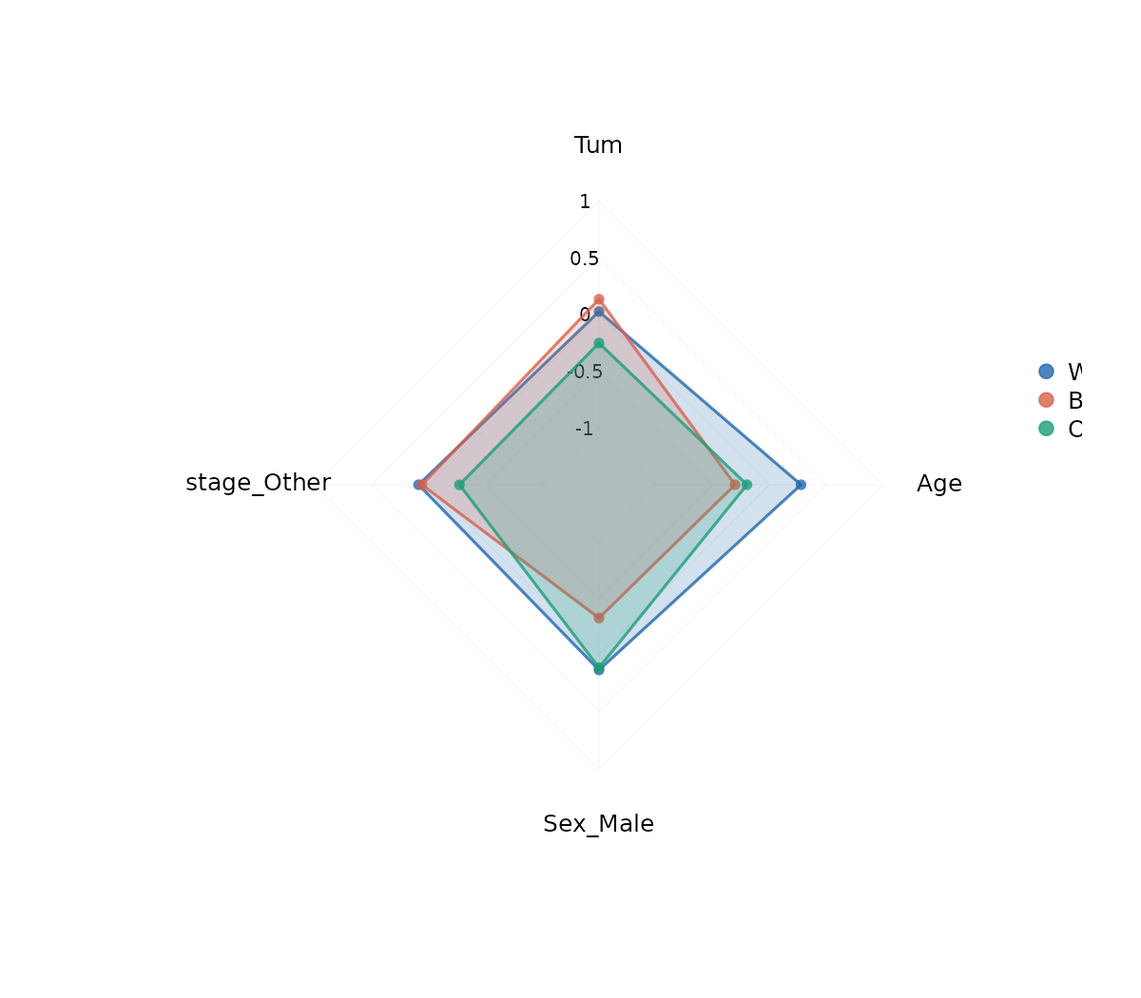
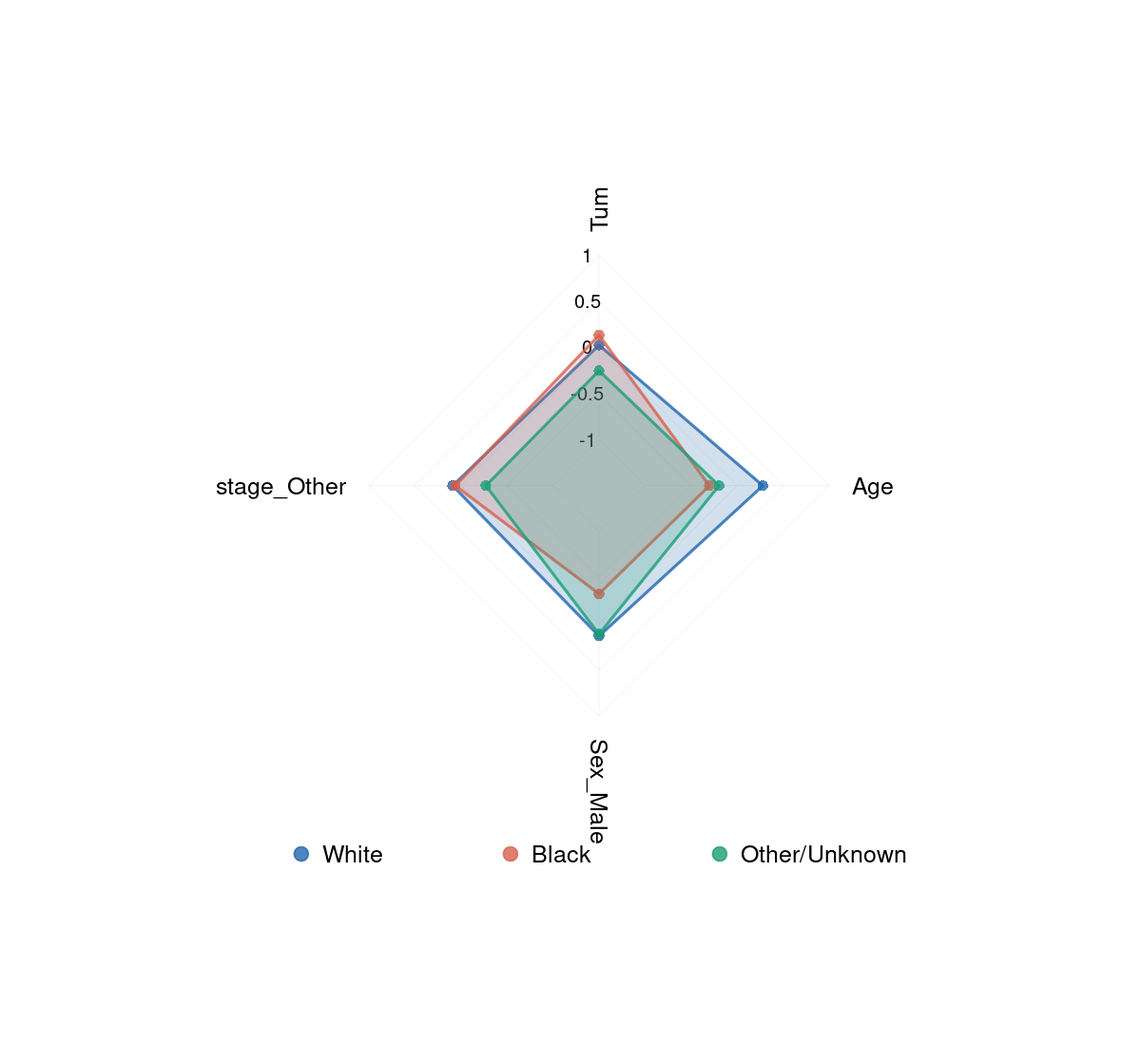
Show radial and horizontal radar labels in both rendering backends

diff --git a/docs/regr/effect-comparison-guide.html b/docs/regr/effect-comparison-guide.html
@@ -1047,7 +1047,7 @@ pre > code.sourceCode > span > a:first-child::before { text-decoration: underlin
   <li><a href="#先区分比较对象与编码" id="toc-先区分比较对象与编码" class="nav-link" data-scroll-target="#先区分比较对象与编码">先区分比较对象与编码</a></li>
   <li><a href="#plt_cohen-与-plt_dot点图并不限于-d" id="toc-plt_cohen-与-plt_dot点图并不限于-d" class="nav-link" data-scroll-target="#plt_cohen-与-plt_dot点图并不限于-d">plt_cohen 与 plt_dot：点图并不限于 d</a></li>
   <li><a href="#plt_compare计算并作图的入口" id="toc-plt_compare计算并作图的入口" class="nav-link" data-scroll-target="#plt_compare计算并作图的入口">plt_compare：计算并作图的入口</a></li>
-  <li><a href="#plt_radar两个后端与有符号范围" id="toc-plt_radar两个后端与有符号范围" class="nav-link" data-scroll-target="#plt_radar两个后端与有符号范围">plt_radar：两个后端与有符号范围</a></li>
+  <li><a href="#plt_radar两个后端标签方向与有符号范围" id="toc-plt_radar两个后端标签方向与有符号范围" class="nav-link" data-scroll-target="#plt_radar两个后端标签方向与有符号范围">plt_radar：两个后端、标签方向与有符号范围</a></li>
   <li><a href="#plt_heatmap类别格图和真正的频数热图" id="toc-plt_heatmap类别格图和真正的频数热图" class="nav-link" data-scroll-target="#plt_heatmap类别格图和真正的频数热图">plt_heatmap：类别格图和真正的频数热图</a></li>
   <li><a href="#使用边界保存与复现记录" id="toc-使用边界保存与复现记录" class="nav-link" data-scroll-target="#使用边界保存与复现记录">使用边界、保存与复现记录</a></li>
   <li><a href="#相关页面与源码" id="toc-相关页面与源码" class="nav-link" data-scroll-target="#相关页面与源码">相关页面与源码</a></li>
@@ -1075,6 +1075,12 @@ pre > code.sourceCode > span > a:first-child::before { text-decoration: underlin
     </div>
   </div>
 
+    <div>
+    <div class="quarto-title-meta-heading">修改于</div>
+    <div class="quarto-title-meta-contents">
+      <p class="date-modified">2026年10月10日</p>
+    </div>
+  </div>
 
   </div>
 
@@ -1084,7 +1090,7 @@ pre > code.sourceCode > span > a:first-child::before { text-decoration: underlin
 
 
 <p>这组接口把各组的特征差异整理为“Variable + 各组列”的宽表，再绘制点图或雷达图。最先要核对的不是配色，而是各数值到底比较了谁；当前两个统计入口的比较对象并不相同。</p>
-<p><strong>版本与执行范围：</strong> 按 RegR 0.1.3 当前源码核对，使用 WSL R 4.4.3 实际运行下面的示例并保存汇总输出。示例用于理解接口和输出；不构成外部验证或临床效果结论。</p>
+<p><strong>核对记录：</strong> 本次按公开 RegR 提交 <code>af8f32c</code> 重绘 base、gg 和分面雷达图，并实际比较径向 / 水平标签。其他统计与图片保留历史执行结果。原示例使用 WSL R 4.4.3 实际运行下面的示例并保存汇总输出。示例用于理解接口和输出；不构成外部验证或临床效果结论。</p>
 <section id="数据准备与复现" class="level2">
 <h2 class="anchored" data-anchor-id="数据准备与复现">数据准备与复现</h2>
 <p>使用 RegR 自带的 SEER 甲状腺髓样癌队列。保留完整模型变量、正随访时间及肿瘤大小在 0–200 mm 内的记录，再固定种子抽取最多 800 人。<code>stage</code> 合并为 T1/T2 与其余分期，<code>surgery</code> 为无手术与任一手术。它们是本页的演示编码。时间单位沿用原始队列的月。只发布汇总结果。</p>
@@ -1116,6 +1122,7 @@ pre > code.sourceCode > span > a:first-child::before { text-decoration: underlin
 </section>
 <section id="先区分比较对象与编码" class="level2">
 <h2 class="anchored" data-anchor-id="先区分比较对象与编码">先区分比较对象与编码</h2>
+<div class="table-responsive" tabindex="0" role="region" aria-label="表格，可横向滚动">
 <table class="caption-top table">
 <colgroup>
 <col style="width: 33%">
@@ -1152,6 +1159,7 @@ pre > code.sourceCode > span > a:first-child::before { text-decoration: underlin
 </tr>
 </tbody>
 </table>
+</div>
 <p>因此两个表不是同一估计量的两种命名。全样本比较会稀释均值差；不能直接把这里的 Cohen’s d 当成互不重叠两组的经典 d。两个入口返回点估计，没有保留 effsize 内部区间，也不是组间显著性检验。</p>
 <p>本页将因子用 onehot=TRUE 处理；需要每个分类变量一行时，只对 stat_smd 使用 onehot=FALSE。</p>
 <div class="tabset-margin-container"></div><div class="panel-tabset">
@@ -1487,8 +1495,8 @@ stage_Other
 </div>
 </div>
 </section>
-<section id="plt_radar两个后端与有符号范围" class="level2">
-<h2 class="anchored" data-anchor-id="plt_radar两个后端与有符号范围">plt_radar：两个后端与有符号范围</h2>
+<section id="plt_radar两个后端标签方向与有符号范围" class="level2">
+<h2 class="anchored" data-anchor-id="plt_radar两个后端标签方向与有符号范围">plt_radar：两个后端、标签方向与有符号范围</h2>
 <p>base 使用 fmsb 在当前图形设备作图，返回 invisible(res)；gg 返回可继续编辑的 ggplot/patchwork。当前源码中 min_max 仅在 base 分支生效；gg 分支从完整统计表自动派生范围，facet 面板共用这一范围，即便传入 min_max 也不会改变它。n_breaks 参与刻度生成，实际刻度数由 pretty 等规则决定。两个后端的数值范围未必一致，先核对刻度再比较。雷达面积受变量排序、数量与轴范围影响，不用面积给组别排优劣。</p>
 <div class="tabset-margin-container"></div><div class="panel-tabset">
 <ul class="nav nav-tabs" role="tablist"><li class="nav-item" role="presentation"><a class="nav-link active" id="tabset-4-1-tab" data-bs-toggle="tab" data-bs-target="#tabset-4-1" role="tab" aria-controls="tabset-4-1" aria-selected="true" href="">base 后端</a></li><li class="nav-item" role="presentation"><a class="nav-link" id="tabset-4-2-tab" data-bs-toggle="tab" data-bs-target="#tabset-4-2" role="tab" aria-controls="tabset-4-2" aria-selected="false" href="">gg 后端</a></li><li class="nav-item" role="presentation"><a class="nav-link" id="tabset-4-3-tab" data-bs-toggle="tab" data-bs-target="#tabset-4-3" role="tab" aria-controls="tabset-4-3" aria-selected="false" href="">各组独立面板</a></li></ul>
@@ -1499,7 +1507,7 @@ stage_Other
 <span id="cb11-2"><a href="#cb11-2" aria-hidden="true" tabindex="-1"></a>  <span class="at">min_max =</span> <span class="fu">c</span>(<span class="sc">-</span><span class="dv">1</span>, <span class="dv">1</span>), <span class="at">n_breaks =</span> <span class="dv">5</span>)</span></code></pre></div><button title="复制到剪贴板" class="code-copy-button"><i class="bi"></i></button></div>
 <div class="quarto-figure quarto-figure-center">
 <figure class="figure">
-<p><a href="images/effect-comparison-guide/compare-radar-base.png" class="lightbox" data-gallery="quarto-lightbox-gallery-6" title="保留负值刻度的 SMD 雷达；当前设备接收实际绘图。"><img src="images/effect-comparison-guide/compare-radar-base.png" class="img-fluid figure-img" alt="base 后端；保留负值刻度的 SMD 雷达；当前设备接收实际绘图。" loading="lazy" decoding="async" width="1200" height="1050" srcset="../assets/figure-previews/093e4c7a8a814c34e0837b6f0c4b7699.webp"></a></p>
+<p><a href="images/effect-comparison-guide/compare-radar-base.png" class="lightbox" data-gallery="quarto-lightbox-gallery-6" title="保留负值刻度的 SMD 雷达；当前设备接收实际绘图。"><img src="images/effect-comparison-guide/compare-radar-base.png" class="img-fluid figure-img" alt="base 后端；保留负值刻度的 SMD 雷达；当前设备接收实际绘图。" loading="lazy" decoding="async" width="1200" height="1100" srcset="../assets/figure-previews/8fc3d3422989dcaad02875cecfa721f7.webp"></a></p>
 <figcaption>保留负值刻度的 SMD 雷达；当前设备接收实际绘图。</figcaption>
 </figure>
 </div>
@@ -1510,7 +1518,7 @@ stage_Other
 <span id="cb12-2"><a href="#cb12-2" aria-hidden="true" tabindex="-1"></a>  <span class="at">palette =</span> cols, <span class="at">n_breaks =</span> <span class="dv">5</span>)</span></code></pre></div><button title="复制到剪贴板" class="code-copy-button"><i class="bi"></i></button></div>
 <div class="quarto-figure quarto-figure-center">
 <figure class="figure">
-<p><a href="images/effect-comparison-guide/compare-radar-gg.png" class="lightbox" data-gallery="quarto-lightbox-gallery-7" title="相同统计表，gg 后端自动派生刻度；变量次序由 ref_group 控制。"><img src="images/effect-comparison-guide/compare-radar-gg.png" class="img-fluid figure-img" alt="gg 后端；相同统计表，gg 后端自动派生刻度；变量次序由 ref_group 控制。" loading="lazy" decoding="async" width="1200" height="1050" srcset="../assets/figure-previews/cf50a52eaf7bd2ffede623fc81ced1df.webp"></a></p>
+<p><a href="images/effect-comparison-guide/compare-radar-gg.png" class="lightbox" data-gallery="quarto-lightbox-gallery-7" title="相同统计表，gg 后端自动派生刻度；变量次序由 ref_group 控制。"><img src="images/effect-comparison-guide/compare-radar-gg.png" class="img-fluid figure-img" alt="gg 后端；相同统计表，gg 后端自动派生刻度；变量次序由 ref_group 控制。" loading="lazy" decoding="async" width="1200" height="1050" srcset="../assets/figure-previews/99ce952fcd02211f6360e44feaae1ba5.webp"></a></p>
 <figcaption>相同统计表，gg 后端自动派生刻度；变量次序由 ref_group 控制。</figcaption>
 </figure>
 </div>
@@ -1521,43 +1529,76 @@ stage_Other
 <span id="cb13-2"><a href="#cb13-2" aria-hidden="true" tabindex="-1"></a>  <span class="at">palette =</span> cols, <span class="at">n_breaks =</span> <span class="dv">5</span>)</span></code></pre></div><button title="复制到剪贴板" class="code-copy-button"><i class="bi"></i></button></div>
 <div class="quarto-figure quarto-figure-center">
 <figure class="figure">
-<p><a href="images/effect-comparison-guide/compare-radar-facet.png" class="lightbox" data-gallery="quarto-lightbox-gallery-8" title="gg 分面使用同一完整表派生的共同范围。"><img src="images/effect-comparison-guide/compare-radar-facet.png" class="img-fluid figure-img" alt="各组独立面板；gg 分面使用同一完整表派生的共同范围。" loading="lazy" decoding="async" width="1950" height="750" srcset="../assets/figure-previews/f572ff9e7e663f1e60c2fb035d70ef4f.webp"></a></p>
+<p><a href="images/effect-comparison-guide/compare-radar-facet.png" class="lightbox" data-gallery="quarto-lightbox-gallery-8" title="gg 分面使用同一完整表派生的共同范围。"><img src="images/effect-comparison-guide/compare-radar-facet.png" class="img-fluid figure-img" alt="各组独立面板；gg 分面使用同一完整表派生的共同范围。" loading="lazy" decoding="async" width="1200" height="750" srcset="../assets/figure-previews/b1313c5f7bdbee6dbcc4f35c4107cecf.webp"></a></p>
 <figcaption>gg 分面使用同一完整表派生的共同范围。</figcaption>
 </figure>
 </div>
 </div>
 </div>
 </div>
+<section id="径向标签与旧版水平标签" class="level3">
+<h3 class="anchored" data-anchor-id="径向标签与旧版水平标签">径向标签与旧版水平标签</h3>
+<p><code>label_direction = "radial"</code> 现在是 base / gg 两个后端的默认值，标签随雷达轴旋转；左侧标签翻转并向外对齐，保持文字正立。前面三张雷达图已按该默认值重绘。<code>"horizontal"</code> 保留旧版水平布局；换行、变量顺序和效应数值不随方向改变。<code>plt_compare(display = "radar")</code> 也采用新的默认方向。</p>
+<div class="tabset-margin-container"></div><div class="panel-tabset">
+<ul class="nav nav-tabs" role="tablist"><li class="nav-item" role="presentation"><a class="nav-link active" id="tabset-5-1-tab" data-bs-toggle="tab" data-bs-target="#tabset-5-1" role="tab" aria-controls="tabset-5-1" aria-selected="true" href="">base：水平标签</a></li><li class="nav-item" role="presentation"><a class="nav-link" id="tabset-5-2-tab" data-bs-toggle="tab" data-bs-target="#tabset-5-2" role="tab" aria-controls="tabset-5-2" aria-selected="false" href="">gg：水平标签</a></li></ul>
+<div class="tab-content">
+<div id="tabset-5-1" class="tab-pane active" role="tabpanel" aria-labelledby="tabset-5-1-tab">
+<!-- radar-horizontal:base -->
+<div class="code-copy-outer-scaffold"><div class="sourceCode" id="cb14"><pre class="sourceCode r code-with-copy"><code class="sourceCode r"><span id="cb14-1"><a href="#cb14-1" aria-hidden="true" tabindex="-1"></a><span class="fu">plt_radar</span>(smd, <span class="at">output =</span> <span class="st">"base"</span>, <span class="at">palette =</span> cols,</span>
+<span id="cb14-2"><a href="#cb14-2" aria-hidden="true" tabindex="-1"></a>  <span class="at">min_max =</span> <span class="fu">c</span>(<span class="sc">-</span><span class="dv">1</span>, <span class="dv">1</span>), <span class="at">n_breaks =</span> <span class="dv">5</span>, <span class="at">label_direction =</span> <span class="st">"horizontal"</span>)</span></code></pre></div><button title="复制到剪贴板" class="code-copy-button"><i class="bi"></i></button></div>
+<div class="quarto-figure quarto-figure-center">
+<figure class="figure">
+<p><a href="images/effect-comparison-guide/radar-base-horizontal.png" class="lightbox" data-gallery="quarto-lightbox-gallery-9" title="同一 SMD 表与 base 刻度范围，标签改为水平；可与上方径向默认图比较。"><img src="images/effect-comparison-guide/radar-base-horizontal.png" class="img-fluid figure-img" alt="base 雷达图使用水平变量标签，保留原来的负值和正值刻度。" loading="lazy" decoding="async" width="1200" height="1100" srcset="../assets/figure-previews/f3733c93e00581ed09bc5fbb3a7f9370.webp"></a></p>
+<figcaption>同一 SMD 表与 base 刻度范围，标签改为水平；可与上方径向默认图比较。</figcaption>
+</figure>
+</div>
+</div>
+<div id="tabset-5-2" class="tab-pane" role="tabpanel" aria-labelledby="tabset-5-2-tab">
+<!-- radar-horizontal:gg -->
+<div class="code-copy-outer-scaffold"><div class="sourceCode" id="cb15"><pre class="sourceCode r code-with-copy"><code class="sourceCode r"><span id="cb15-1"><a href="#cb15-1" aria-hidden="true" tabindex="-1"></a><span class="fu">plt_radar</span>(smd, <span class="at">output =</span> <span class="st">"gg"</span>, <span class="at">ref_group =</span> ref_order,</span>
+<span id="cb15-2"><a href="#cb15-2" aria-hidden="true" tabindex="-1"></a>  <span class="at">palette =</span> cols, <span class="at">n_breaks =</span> <span class="dv">5</span>, <span class="at">label_direction =</span> <span class="st">"horizontal"</span>)</span></code></pre></div><button title="复制到剪贴板" class="code-copy-button"><i class="bi"></i></button></div>
+<div class="quarto-figure quarto-figure-center">
+<figure class="figure">
+<p><a href="images/effect-comparison-guide/radar-gg-horizontal.png" class="lightbox" data-gallery="quarto-lightbox-gallery-10" title="gg 后端的水平标签布局；数值范围和变量排序与上方 gg 径向图一致。"><img src="images/effect-comparison-guide/radar-gg-horizontal.png" class="img-fluid figure-img" alt="gg 雷达图使用水平变量标签，颜色、排序和 SMD 数值与径向图相同。" loading="lazy" decoding="async" width="1200" height="1050" srcset="../assets/figure-previews/c47542b2bc1b7809bc246cbb0d64adb7.webp"></a></p>
+<figcaption>gg 后端的水平标签布局；数值范围和变量排序与上方 gg 径向图一致。</figcaption>
+</figure>
+</div>
+</div>
+</div>
+</div>
+<p>gg 的径向网格止于外圆，不再延伸到标签留白区。较长标签可先换行，并使用适合的导出尺寸；两个后端仍按各自的尺度规则绘制，不能通过雷达面积比较组别优劣。</p>
+<p>源码：<a href="https://github.com/HUI950319/RegR/blob/af8f32c/R/compare-plt.R">标签方向与径向布局</a>。</p>
+</section>
 </section>
 <section id="plt_heatmap类别格图和真正的频数热图" class="level2">
 <h2 class="anchored" data-anchor-id="plt_heatmap类别格图和真正的频数热图">plt_heatmap：类别格图和真正的频数热图</h2>
 <p>当前 plt_heatmap(three_var) 把第一、第二列映射为 x/y，第三列映射为离散填色和文字。内部虽计算 n，却未把 n 映射到颜色或标签；同一 x/y 有多个第三列水平时会叠画。下面先按每格最高频的 stage 取一行，得到明确的类别格图，再用 ggplot 展示所有分期的实际人数。类别格图没有展示人数或效应大小。</p>
 <div class="tabset-margin-container"></div><div class="panel-tabset">
-<ul class="nav nav-tabs" role="tablist"><li class="nav-item" role="presentation"><a class="nav-link active" id="tabset-5-1-tab" data-bs-toggle="tab" data-bs-target="#tabset-5-1" role="tab" aria-controls="tabset-5-1" aria-selected="true" href="">每格一个类别</a></li><li class="nav-item" role="presentation"><a class="nav-link" id="tabset-5-2-tab" data-bs-toggle="tab" data-bs-target="#tabset-5-2" role="tab" aria-controls="tabset-5-2" aria-selected="false" href="">按人数填色</a></li></ul>
+<ul class="nav nav-tabs" role="tablist"><li class="nav-item" role="presentation"><a class="nav-link active" id="tabset-6-1-tab" data-bs-toggle="tab" data-bs-target="#tabset-6-1" role="tab" aria-controls="tabset-6-1" aria-selected="true" href="">每格一个类别</a></li><li class="nav-item" role="presentation"><a class="nav-link" id="tabset-6-2-tab" data-bs-toggle="tab" data-bs-target="#tabset-6-2" role="tab" aria-controls="tabset-6-2" aria-selected="false" href="">按人数填色</a></li></ul>
 <div class="tab-content">
-<div id="tabset-5-1" class="tab-pane active" role="tabpanel" aria-labelledby="tabset-5-1-tab">
+<div id="tabset-6-1" class="tab-pane active" role="tabpanel" aria-labelledby="tabset-6-1-tab">
 <p>各 Sex×surgery 格中最常见的 stage；不是患者数热图。</p>
-<div class="code-copy-outer-scaffold"><div class="sourceCode" id="cb14"><pre class="sourceCode r code-with-copy"><code class="sourceCode r"><span id="cb14-1"><a href="#cb14-1" aria-hidden="true" tabindex="-1"></a>cross <span class="ot">&lt;-</span> dplyr<span class="sc">::</span><span class="fu">count</span>(d, Sex, surgery, stage)</span>
-<span id="cb14-2"><a href="#cb14-2" aria-hidden="true" tabindex="-1"></a>modal <span class="ot">&lt;-</span> cross <span class="sc">|&gt;</span> dplyr<span class="sc">::</span><span class="fu">group_by</span>(Sex, surgery) <span class="sc">|&gt;</span></span>
-<span id="cb14-3"><a href="#cb14-3" aria-hidden="true" tabindex="-1"></a>  dplyr<span class="sc">::</span><span class="fu">slice_max</span>(n, <span class="at">n =</span> <span class="dv">1</span>, <span class="at">with_ties =</span> <span class="cn">FALSE</span>) <span class="sc">|&gt;</span> dplyr<span class="sc">::</span><span class="fu">ungroup</span>()</span>
-<span id="cb14-4"><a href="#cb14-4" aria-hidden="true" tabindex="-1"></a><span class="fu">plt_heatmap</span>(modal, <span class="at">three_var =</span> <span class="fu">c</span>(<span class="st">"Sex"</span>, <span class="st">"surgery"</span>, <span class="st">"stage"</span>), <span class="at">base_size =</span> <span class="dv">13</span>)</span></code></pre></div><button title="复制到剪贴板" class="code-copy-button"><i class="bi"></i></button></div>
+<div class="code-copy-outer-scaffold"><div class="sourceCode" id="cb16"><pre class="sourceCode r code-with-copy"><code class="sourceCode r"><span id="cb16-1"><a href="#cb16-1" aria-hidden="true" tabindex="-1"></a>cross <span class="ot">&lt;-</span> dplyr<span class="sc">::</span><span class="fu">count</span>(d, Sex, surgery, stage)</span>
+<span id="cb16-2"><a href="#cb16-2" aria-hidden="true" tabindex="-1"></a>modal <span class="ot">&lt;-</span> cross <span class="sc">|&gt;</span> dplyr<span class="sc">::</span><span class="fu">group_by</span>(Sex, surgery) <span class="sc">|&gt;</span></span>
+<span id="cb16-3"><a href="#cb16-3" aria-hidden="true" tabindex="-1"></a>  dplyr<span class="sc">::</span><span class="fu">slice_max</span>(n, <span class="at">n =</span> <span class="dv">1</span>, <span class="at">with_ties =</span> <span class="cn">FALSE</span>) <span class="sc">|&gt;</span> dplyr<span class="sc">::</span><span class="fu">ungroup</span>()</span>
+<span id="cb16-4"><a href="#cb16-4" aria-hidden="true" tabindex="-1"></a><span class="fu">plt_heatmap</span>(modal, <span class="at">three_var =</span> <span class="fu">c</span>(<span class="st">"Sex"</span>, <span class="st">"surgery"</span>, <span class="st">"stage"</span>), <span class="at">base_size =</span> <span class="dv">13</span>)</span></code></pre></div><button title="复制到剪贴板" class="code-copy-button"><i class="bi"></i></button></div>
 <div class="quarto-figure quarto-figure-center">
 <figure class="figure">
-<p><a href="images/effect-comparison-guide/compare-category-map.png" class="lightbox" data-gallery="quarto-lightbox-gallery-9" title="各 Sex×surgery 格中最常见的 stage；不是患者数热图。"><img src="images/effect-comparison-guide/compare-category-map.png" class="img-fluid figure-img" alt="每格一个类别；各 Sex×surgery 格中最常见的 stage；不是患者数热图。" loading="lazy" decoding="async" width="1200" height="750" srcset="../assets/figure-previews/8a9530bf3805fc97b23a1b82af12d9d0.webp"></a></p>
+<p><a href="images/effect-comparison-guide/compare-category-map.png" class="lightbox" data-gallery="quarto-lightbox-gallery-11" title="各 Sex×surgery 格中最常见的 stage；不是患者数热图。"><img src="images/effect-comparison-guide/compare-category-map.png" class="img-fluid figure-img" alt="每格一个类别；各 Sex×surgery 格中最常见的 stage；不是患者数热图。" loading="lazy" decoding="async" width="1200" height="750" srcset="../assets/figure-previews/8a9530bf3805fc97b23a1b82af12d9d0.webp"></a></p>
 <figcaption>各 Sex×surgery 格中最常见的 stage；不是患者数热图。</figcaption>
 </figure>
 </div>
 </div>
-<div id="tabset-5-2" class="tab-pane" role="tabpanel" aria-labelledby="tabset-5-2-tab">
+<div id="tabset-6-2" class="tab-pane" role="tabpanel" aria-labelledby="tabset-6-2-tab">
 <p>每个分期面板显示实际汇总人数；色阶映射为 n。</p>
-<div class="code-copy-outer-scaffold"><div class="sourceCode" id="cb15"><pre class="sourceCode r code-with-copy"><code class="sourceCode r"><span id="cb15-1"><a href="#cb15-1" aria-hidden="true" tabindex="-1"></a><span class="fu">ggplot</span>(cross, <span class="fu">aes</span>(<span class="at">x =</span> Sex, <span class="at">y =</span> surgery, <span class="at">fill =</span> n)) <span class="sc">+</span></span>
-<span id="cb15-2"><a href="#cb15-2" aria-hidden="true" tabindex="-1"></a>  <span class="fu">geom_tile</span>(<span class="at">color =</span> <span class="st">"white"</span>) <span class="sc">+</span> <span class="fu">geom_text</span>(<span class="fu">aes</span>(<span class="at">label =</span> n), <span class="at">size =</span> <span class="dv">5</span>) <span class="sc">+</span></span>
-<span id="cb15-3"><a href="#cb15-3" aria-hidden="true" tabindex="-1"></a>  <span class="fu">facet_wrap</span>(<span class="sc">~</span>stage) <span class="sc">+</span> <span class="fu">scale_fill_gradient</span>(<span class="at">low =</span> <span class="st">"#EFF3FF"</span>, <span class="at">high =</span> <span class="st">"#08519C"</span>) <span class="sc">+</span></span>
-<span id="cb15-4"><a href="#cb15-4" aria-hidden="true" tabindex="-1"></a>  <span class="fu">labs</span>(<span class="at">x =</span> <span class="st">"Sex"</span>, <span class="at">y =</span> <span class="st">"Surgery"</span>, <span class="at">fill =</span> <span class="st">"Patients"</span>) <span class="sc">+</span></span>
-<span id="cb15-5"><a href="#cb15-5" aria-hidden="true" tabindex="-1"></a>  <span class="fu">theme_minimal</span>(<span class="at">base_size =</span> <span class="dv">13</span>)</span></code></pre></div><button title="复制到剪贴板" class="code-copy-button"><i class="bi"></i></button></div>
+<div class="code-copy-outer-scaffold"><div class="sourceCode" id="cb17"><pre class="sourceCode r code-with-copy"><code class="sourceCode r"><span id="cb17-1"><a href="#cb17-1" aria-hidden="true" tabindex="-1"></a><span class="fu">ggplot</span>(cross, <span class="fu">aes</span>(<span class="at">x =</span> Sex, <span class="at">y =</span> surgery, <span class="at">fill =</span> n)) <span class="sc">+</span></span>
+<span id="cb17-2"><a href="#cb17-2" aria-hidden="true" tabindex="-1"></a>  <span class="fu">geom_tile</span>(<span class="at">color =</span> <span class="st">"white"</span>) <span class="sc">+</span> <span class="fu">geom_text</span>(<span class="fu">aes</span>(<span class="at">label =</span> n), <span class="at">size =</span> <span class="dv">5</span>) <span class="sc">+</span></span>
+<span id="cb17-3"><a href="#cb17-3" aria-hidden="true" tabindex="-1"></a>  <span class="fu">facet_wrap</span>(<span class="sc">~</span>stage) <span class="sc">+</span> <span class="fu">scale_fill_gradient</span>(<span class="at">low =</span> <span class="st">"#EFF3FF"</span>, <span class="at">high =</span> <span class="st">"#08519C"</span>) <span class="sc">+</span></span>
+<span id="cb17-4"><a href="#cb17-4" aria-hidden="true" tabindex="-1"></a>  <span class="fu">labs</span>(<span class="at">x =</span> <span class="st">"Sex"</span>, <span class="at">y =</span> <span class="st">"Surgery"</span>, <span class="at">fill =</span> <span class="st">"Patients"</span>) <span class="sc">+</span></span>
+<span id="cb17-5"><a href="#cb17-5" aria-hidden="true" tabindex="-1"></a>  <span class="fu">theme_minimal</span>(<span class="at">base_size =</span> <span class="dv">13</span>)</span></code></pre></div><button title="复制到剪贴板" class="code-copy-button"><i class="bi"></i></button></div>
 <div class="quarto-figure quarto-figure-center">
 <figure class="figure">
-<p><a href="images/effect-comparison-guide/compare-frequency-map.png" class="lightbox" data-gallery="quarto-lightbox-gallery-10" title="每个分期面板显示实际汇总人数；色阶映射为 n。"><img src="images/effect-comparison-guide/compare-frequency-map.png" class="img-fluid figure-img" alt="按人数填色；每个分期面板显示实际汇总人数；色阶映射为 n。" loading="lazy" decoding="async" width="1500" height="750" srcset="../assets/figure-previews/1cf0fbf152cafb99cbe2326deb0d06f0.webp"></a></p>
+<p><a href="images/effect-comparison-guide/compare-frequency-map.png" class="lightbox" data-gallery="quarto-lightbox-gallery-12" title="每个分期面板显示实际汇总人数；色阶映射为 n。"><img src="images/effect-comparison-guide/compare-frequency-map.png" class="img-fluid figure-img" alt="按人数填色；每个分期面板显示实际汇总人数；色阶映射为 n。" loading="lazy" decoding="async" width="1500" height="750" srcset="../assets/figure-previews/1cf0fbf152cafb99cbe2326deb0d06f0.webp"></a></p>
 <figcaption>每个分期面板显示实际汇总人数；色阶映射为 n。</figcaption>
 </figure>
 </div>
@@ -1581,8 +1622,8 @@ stage_Other
 <li><p><a href="https://github.com/HUI950319/RegR/blob/2e56cc6e06d548786b0a43d3449e463a0b36b252/R/compare-plt.R">compare-plt.R</a></p></li>
 <li><p><a href="https://github.com/HUI950319/RegR/blob/2e56cc6e06d548786b0a43d3449e463a0b36b252/R/plt-heatmap.R">plt-heatmap.R</a></p></li>
 </ul>
-<div class="code-copy-outer-scaffold"><div class="sourceCode" id="cb16"><pre class="sourceCode r code-with-copy"><code class="sourceCode r"><span id="cb16-1"><a href="#cb16-1" aria-hidden="true" tabindex="-1"></a><span class="fu">packageVersion</span>(<span class="st">"RegR"</span>)</span>
-<span id="cb16-2"><a href="#cb16-2" aria-hidden="true" tabindex="-1"></a><span class="fu">sessionInfo</span>()</span></code></pre></div><button title="复制到剪贴板" class="code-copy-button"><i class="bi"></i></button></div>
+<div class="code-copy-outer-scaffold"><div class="sourceCode" id="cb18"><pre class="sourceCode r code-with-copy"><code class="sourceCode r"><span id="cb18-1"><a href="#cb18-1" aria-hidden="true" tabindex="-1"></a><span class="fu">packageVersion</span>(<span class="st">"RegR"</span>)</span>
+<span id="cb18-2"><a href="#cb18-2" aria-hidden="true" tabindex="-1"></a><span class="fu">sessionInfo</span>()</span></code></pre></div><button title="复制到剪贴板" class="code-copy-button"><i class="bi"></i></button></div>
 
 
 </section>
@@ -2014,7 +2055,8 @@ stage_Other
   </div>
 </nav>
 </div> <!-- /content -->
-<footer class="footer"><div class="nav-footer"><div class="nav-footer-center"><div class="toc-actions d-sm-block d-md-none"><ul><li><a href="https://github.com/HUI950319/Rnotes/blob/main/regr/effect-comparison-guide.qmd" class="toc-action"><i class="bi bi-github"></i>查看代码</a></li><li><a href="https://github.com/HUI950319/Rnotes/issues/new" class="toc-action"><i class="bi empty"></i>反馈问题</a></li></ul></div></div></div></footer><script>var lightboxQuarto = GLightbox({"closeEffect":"zoom","descPosition":"bottom","loop":false,"openEffect":"zoom","selector":".lightbox"});
+<footer class="footer"><div class="nav-footer"><div class="nav-footer-center"><div class="toc-actions d-sm-block d-md-none"><ul><li><a href="https://github.com/HUI950319/Rnotes/blob/main/regr/effect-comparison-guide.qmd" class="toc-action"><i class="bi bi-github"></i>查看代码</a></li><li><a href="https://github.com/HUI950319/Rnotes/issues/new" class="toc-action"><i class="bi empty"></i>反馈问题</a></li></ul></div></div></div></footer><script src="../assets/sidebar-navigation.js"></script>
+<script>var lightboxQuarto = GLightbox({"closeEffect":"zoom","descPosition":"bottom","loop":false,"openEffect":"zoom","selector":".lightbox"});
 (function() {
   let previousOnload = window.onload;
   window.onload = () => {
@@ -2050,5 +2092,4 @@ stage_Other
 
 
 
-<script src="../assets/sidebar-navigation.js"></script>
 </body></html>
